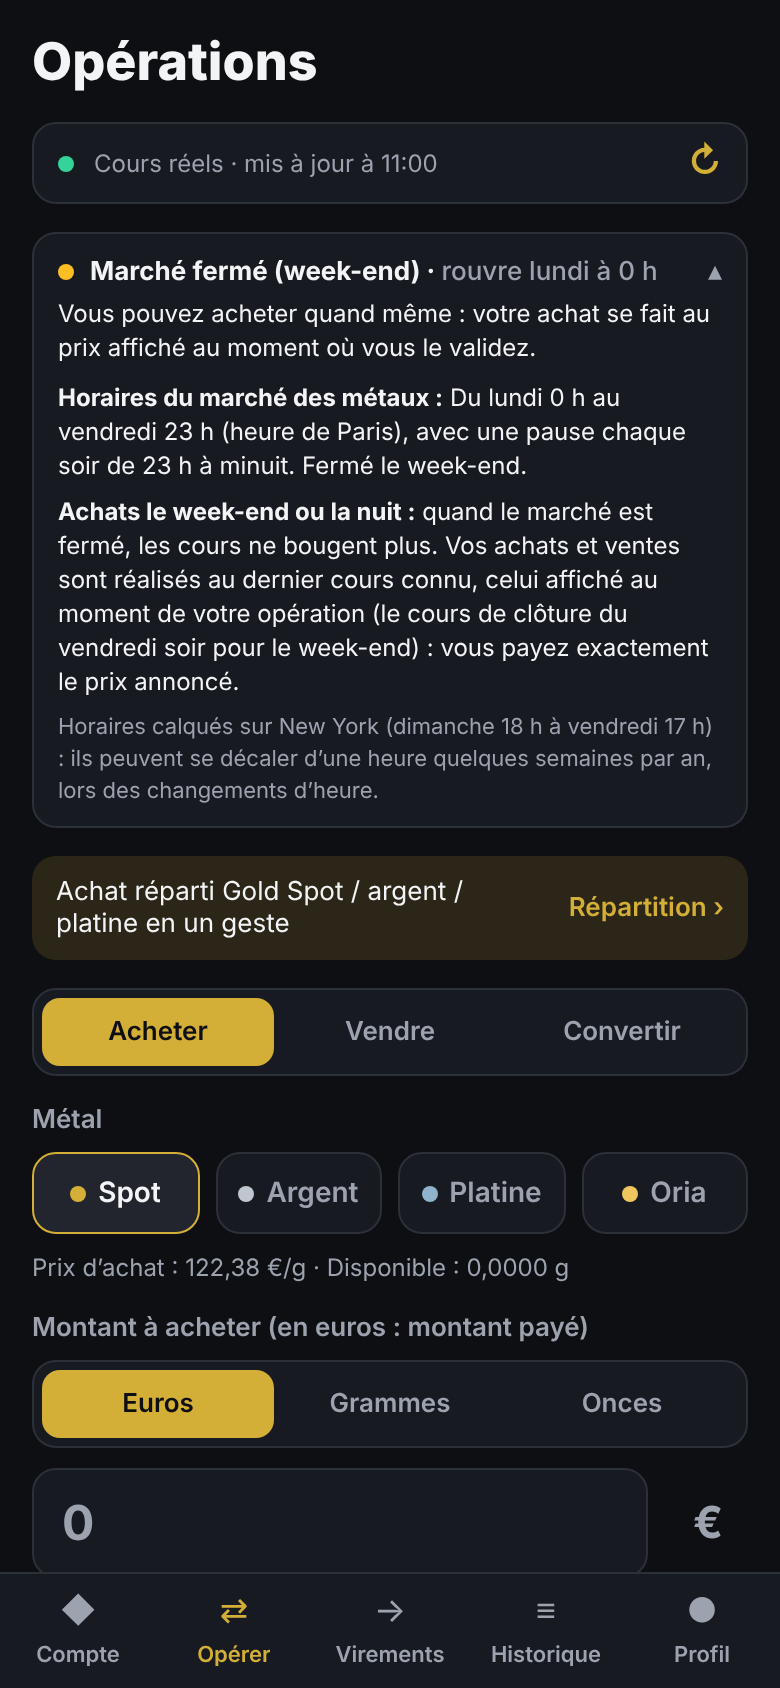
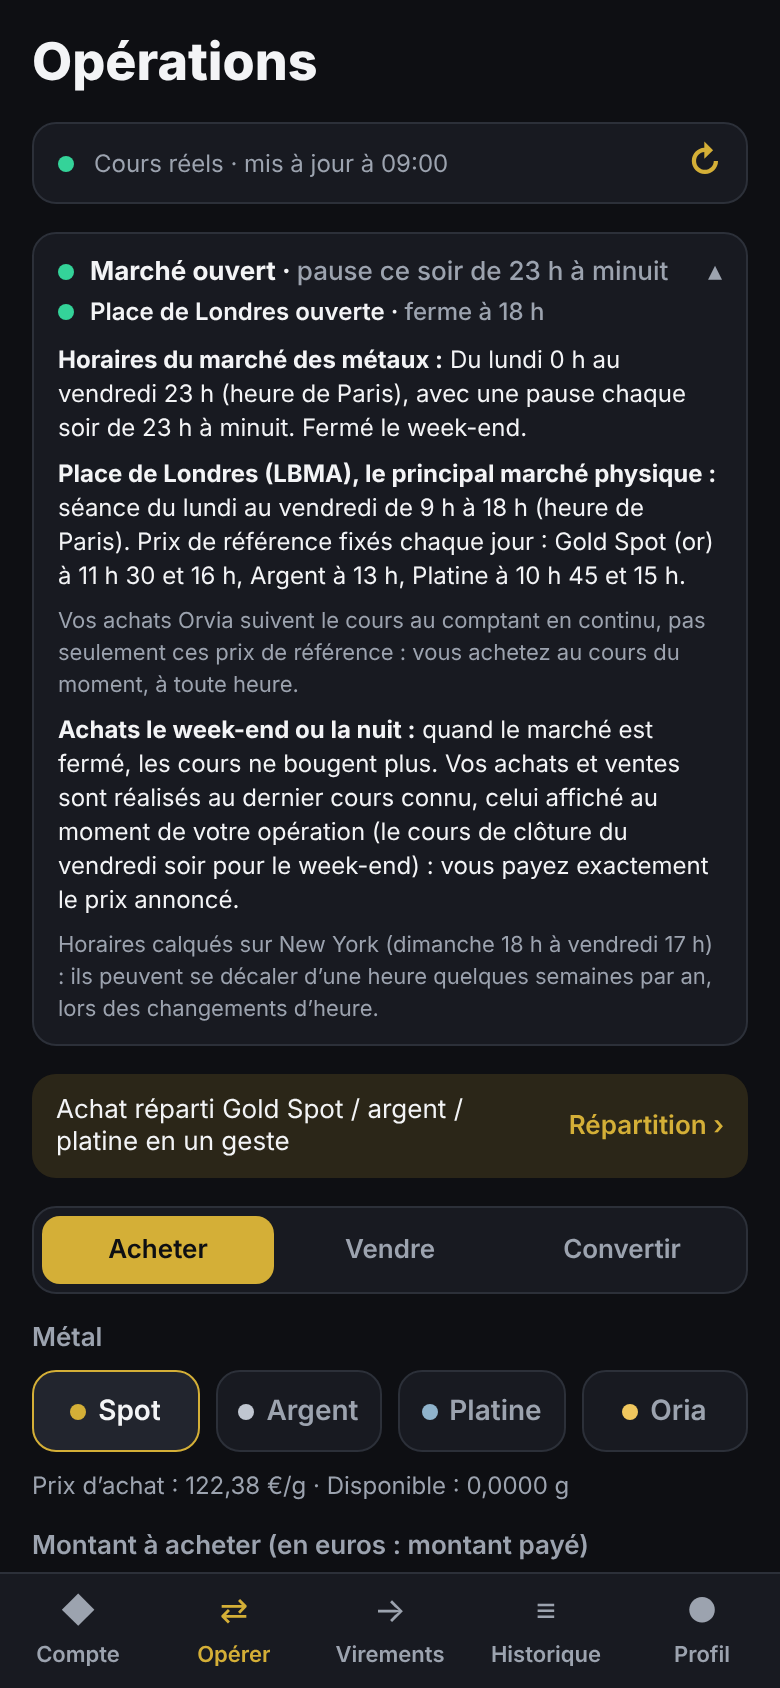
Ajoute la place de Londres aux horaires du marché
Statut de la séance de Londres (LBMA, 9 h – 18 h heure de Paris en
semaine) et prix de référence quotidiens : or à 11 h 30 et 16 h, argent à
13 h, platine à 10 h 45 et 15 h ; rappel que les achats Orvia suivent le
cours au comptant en continu. Tests (43).

Claude-Session: https://claude.ai/code/session_019m3ctJVz1TpkJKNRs6VdX9

diff --git a/src/components/MarketHours.tsx b/src/components/MarketHours.tsx
@@ -1,13 +1,14 @@
 import { useState } from 'react';
 import { Pressable, StyleSheet, Text, View } from 'react-native';
 
-import { MARKET_HOURS, marketStatus } from '../logic/market';
+import { LONDON, londonStatus, MARKET_HOURS, marketStatus } from '../logic/market';
 import { colors } from '../theme';
 
 /** Marché ouvert ou fermé, horaires, et règle des achats quand il est fermé. */
 export function MarketHours() {
   const [open, setOpen] = useState(false);
   const s = marketStatus();
+  const l = londonStatus();
   return (
     <Pressable onPress={() => setOpen((o) => !o)} style={styles.box} accessibilityRole="button">
       <View style={styles.row}>
@@ -18,6 +19,12 @@ export function MarketHours() {
         </Text>
         <Text style={styles.chevron}>{open ? '▴' : '▾'}</Text>
       </View>
+      <View style={styles.row}>
+        <View style={[styles.dot, { backgroundColor: l.open ? colors.up : colors.textMuted }]} />
+        <Text style={styles.sub}>
+          Place de Londres {l.open ? 'ouverte' : 'fermée'} · <Text style={styles.next}>{l.next}</Text>
+        </Text>
+      </View>
       {!s.open && (
         <Text style={styles.text}>
           Vous pouvez acheter quand même : votre achat se fait au prix affiché au moment où vous le validez.
@@ -27,6 +34,15 @@ export function MarketHours() {
         <View style={{ gap: 6, marginTop: 4 }}>
           <Text style={styles.text}>
             <Text style={styles.bold}>Horaires du marché des métaux :</Text> {MARKET_HOURS}
+          </Text>
+          <Text style={styles.text}>
+            <Text style={styles.bold}>Place de Londres (LBMA), le principal marché physique :</Text> séance du lundi au
+            vendredi de 9 h à 18 h (heure de Paris). Prix de référence fixés chaque jour :{' '}
+            {LONDON.fixings.map((f) => `${f.metal} à ${f.times}`).join(', ')}.
+          </Text>
+          <Text style={styles.muted}>
+            Vos achats Orvia suivent le cours au comptant en continu, pas seulement ces prix de référence : vous achetez
+            au cours du moment, à toute heure.
           </Text>
           <Text style={styles.text}>
             <Text style={styles.bold}>Achats le week-end ou la nuit :</Text> quand le marché est fermé, les cours ne
@@ -56,6 +72,7 @@ const styles = StyleSheet.create({
   row: { flexDirection: 'row', alignItems: 'center', gap: 8 },
   dot: { width: 8, height: 8, borderRadius: 4 },
   title: { color: colors.text, fontSize: 13, fontWeight: '700', flex: 1 },
+  sub: { color: colors.text, fontSize: 12, fontWeight: '600', flex: 1 },
   next: { color: colors.textMuted, fontWeight: '500' },
   chevron: { color: colors.textMuted, fontSize: 14 },
   text: { color: colors.text, fontSize: 12, lineHeight: 17 },

diff --git a/src/logic/market.ts b/src/logic/market.ts
@@ -44,3 +44,28 @@ export function marketStatus(now = new Date()): MarketStatus {
 
 export const MARKET_HOURS =
   'Du lundi 0 h au vendredi 23 h (heure de Paris), avec une pause chaque soir de 23 h à minuit. Fermé le week-end.';
+
+/**
+ * Place de Londres (LBMA), principal marché physique de l'or, de l'argent et du platine : séance de 8 h à 17 h,
+ * heure de Londres, soit de 9 h à 18 h à Paris (les deux pays changent d'heure les mêmes jours). Prix de référence
+ * fixés aux enchères chaque jour ouvré (heure de Paris) : or à 11 h 30 et 16 h, argent à 13 h, platine à 10 h 45
+ * et 15 h.
+ */
+export const LONDON = {
+  open: 9,
+  close: 18,
+  fixings: [
+    { metal: 'or', times: '11 h 30 et 16 h' },
+    { metal: 'argent', times: '13 h' },
+    { metal: 'platine', times: '10 h 45 et 15 h' },
+  ],
+} as const;
+
+export function londonStatus(now = new Date()): { open: boolean; next: string } {
+  const { day, hour } = parisTime(now);
+  const weekday = day >= 1 && day <= 5;
+  if (weekday && hour >= LONDON.open && hour < LONDON.close) return { open: true, next: 'ferme à 18 h' };
+  if (weekday && hour < LONDON.open) return { open: false, next: 'ouvre à 9 h' };
+  if (day >= 1 && day <= 4) return { open: false, next: 'ouvre demain à 9 h' };
+  return { open: false, next: 'ouvre lundi à 9 h' };
+}

diff --git a/scripts/ledger.test.ts b/scripts/ledger.test.ts
@@ -770,3 +770,12 @@ test('horaires du marché (heure de Paris) : ouvert en semaine, pause du soir, f
   assert.equal(marketStatus(new Date('2026-11-08T22:00:00Z')).reason, 'weekend'); // dimanche 23 h
   assert.equal(marketStatus(new Date('2026-11-08T23:30:00Z')).open, true); // lundi 0 h 30
 });
+
+test('place de Londres : séance 9 h – 18 h (heure de Paris) en semaine', async () => {
+  const { londonStatus } = await import('../src/logic/market.ts');
+  assert.equal(londonStatus(new Date('2026-11-04T09:00:00Z')).open, true); // mercredi 10 h
+  assert.equal(londonStatus(new Date('2026-11-04T07:30:00Z')).next, 'ouvre à 9 h'); // 8 h 30
+  assert.equal(londonStatus(new Date('2026-11-04T18:00:00Z')).next, 'ouvre demain à 9 h'); // 19 h
+  assert.equal(londonStatus(new Date('2026-11-06T18:00:00Z')).next, 'ouvre lundi à 9 h'); // vendredi 19 h
+  assert.equal(londonStatus(new Date('2026-11-07T12:00:00Z')).open, false); // samedi
+});
